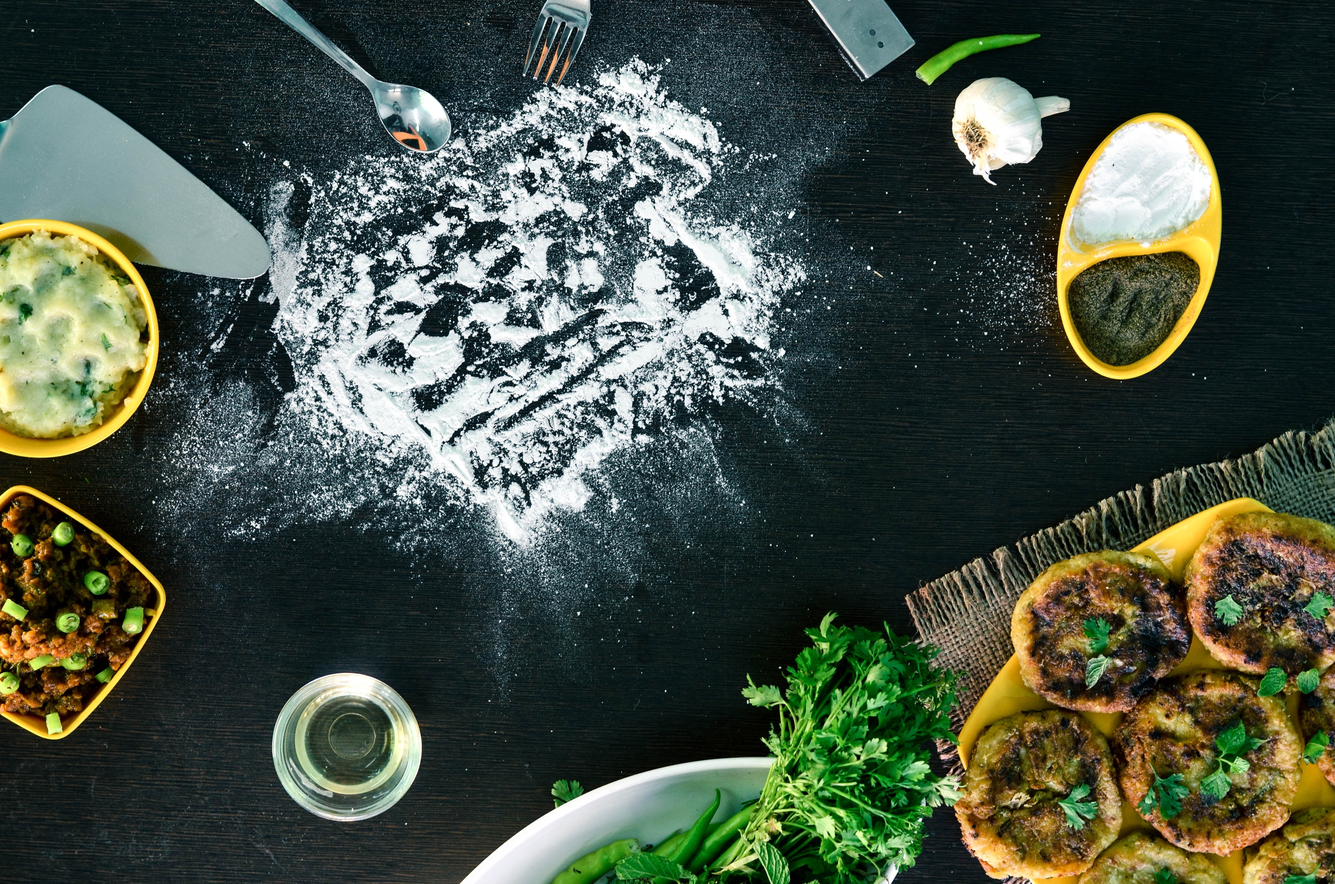
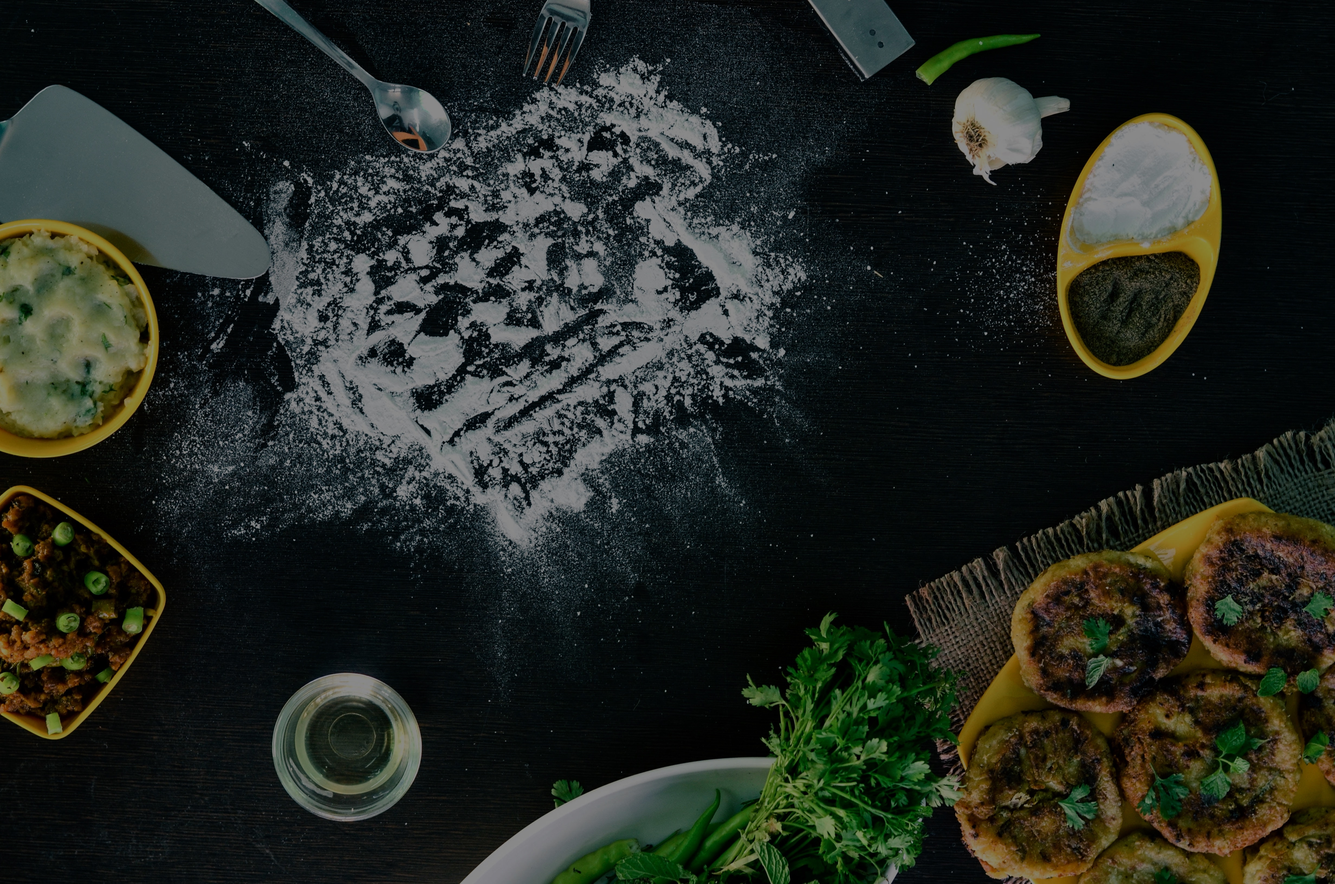
Start work with Recipes component

diff --git a/src/App.css b/src/App.css
@@ -17,7 +17,7 @@ font-family: 'Roboto', sans-serif; */
   color: aliceblue;
 }
 .main_page-title{
-  padding-top: 125px;
+  padding-top: 100px;
   width: 600px;
   color: white;
   font-size: 20px;
@@ -38,18 +38,37 @@ input{
   padding: 10px;
   border-radius: 20px;
   border: none;
-  background-color: rgba(255, 255, 255, 0.27);
-  color: aliceblue;
+  background-color: transparent;
+  color: #ffffff;
+  border: 3px solid white;
 }
+
 button{
   width: 80px;
   padding: 10px;
   border-radius: 20px;
-  color: #1E4325;
-  border: none;
+  color: #ffffff;
+  border: 3px solid white;
   margin-left: 10px;
+  background-color: transparent;
+  cursor: pointer;
 }
 .input-container{
   display: flex;
+  justify-content: center;
+}
+
+.recipes_main-container{
+  padding: 30px 30px;
+  display: flex;
+  flex-wrap: wrap;
+  gap: 40px;
+  background-color: rgb(240, 248, 255);
+}
+
+.box-container{
+  display: flex;
+  flex-direction: column;
+  align-items: center;
   justify-content: center;
 }

diff --git a/src/Recipes.js b/src/Recipes.js
@@ -1,7 +1,16 @@
 import './App.css';
 
 function Recipes(){ 
-
+return(
+    <div className='recipes_main-container'>
+        <div className='box-container'>
+            <img />
+            <h6></h6>
+            <p></p>
+            <button>+</button>
+        </div>
+    </div>
+)
 }
 
 export default Recipes;

diff --git a/src/MainPage.js b/src/MainPage.js
@@ -1,5 +1,6 @@
 import './App.css';
-import image from '../src/img/02.jpeg'
+import image from '../src/img/04.jpeg'
+import Recipes from './Recipes';
 
 function MainPage(){
 
@@ -18,6 +19,7 @@ return(
             </form>
         </div>
     </div>
+    <Recipes />
 </div>
 )
 }

diff --git a/src/App.js b/src/App.js
@@ -1,5 +1,6 @@
 import './App.css';
 import MainPage from './MainPage';
+import Recipes from './Recipes';
 
 function App() {
   return (
